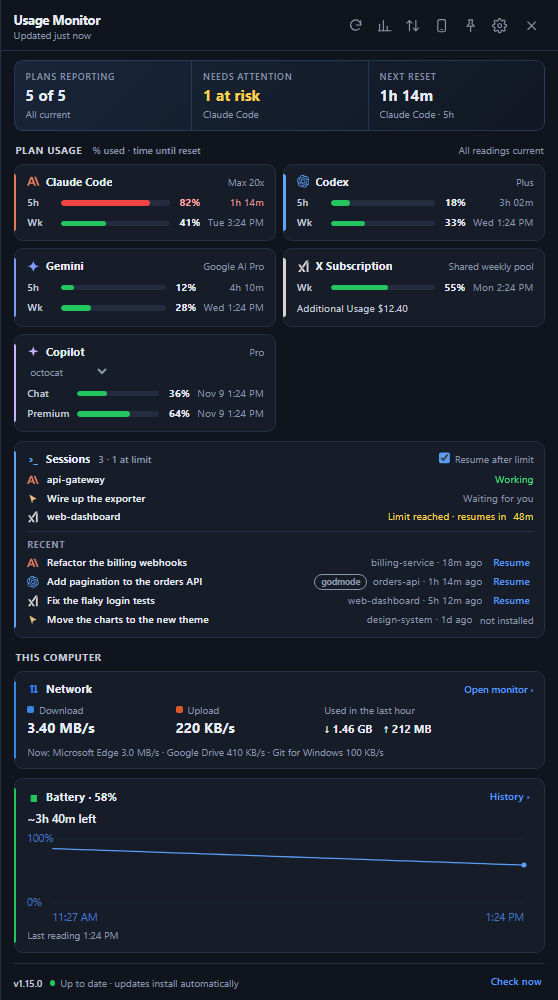
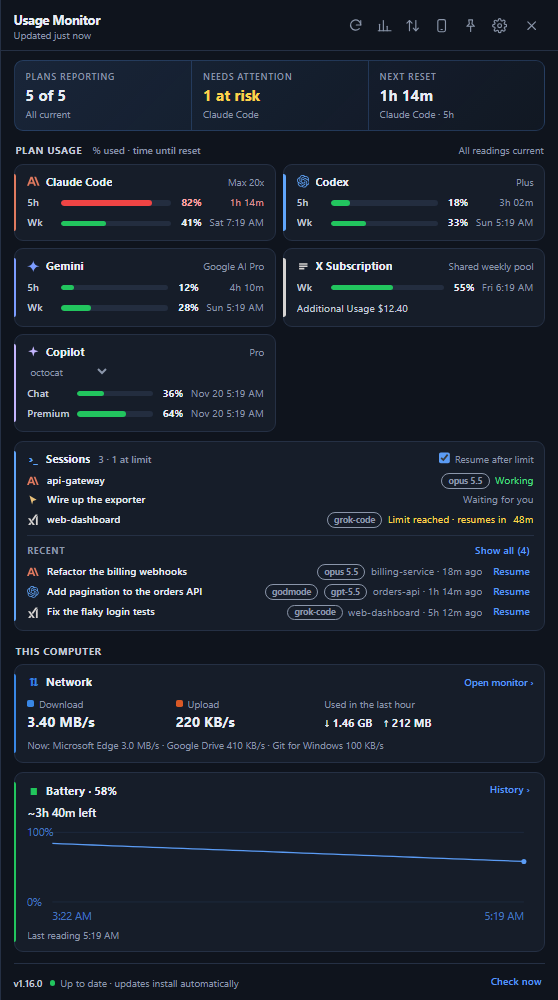
1.16.0: six more tools, a switch per provider, the model on each session

diff --git a/CHANGELOG.md b/CHANGELOG.md
@@ -1,6 +1,6 @@
 # Changelog
 
-## 1.16.0 — unreleased
+## 1.16.0 — 2026-11-10
 
 - **Six more tools.** Windsurf / Devin, Kiro, Amp, OpenCode, Qwen Code and Kimi Code join the plan meters, the Sessions card and the Recent list. Each stays off the strip until it is installed or signed in on this computer, and each reads only the sign-in the tool already saved, read-only, and never refreshes a token.
   - **Windsurf / Devin** reads Devin Desktop's sign-in from its editor database and shows the **Daily** and **Weekly** allowances with their resets, the plan name and extra usage as credits; when the service does not answer it shows the editor's own cached quota as stale. A `devin auth login` sign-in alone shows signed in with no meter. Devin CLI sessions come from its `sessions.db`, with their model; resume is `devin -r <id>`.
